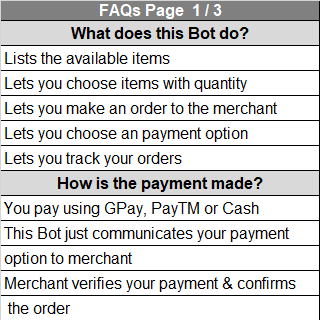
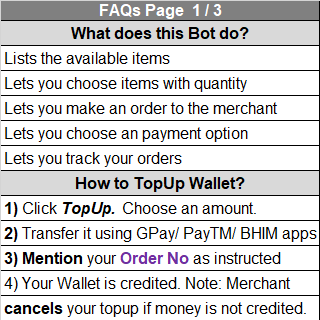
(01) New FAQs (02) Order cancellation updates all transactions (03) Confirmed Orders can be cancelled (04) Small cosmetic changes

Changed region(s): [[0.0, 0.625, 1.0, 0.9062], [0.0, 0.9375, 0.9688, 1.0], [0.1562, 0.5312, 0.8125, 0.5938]]

diff --git a/src/DBInterface.cpp b/src/DBInterface.cpp
@@ -670,17 +670,17 @@ unsigned int DBInterface::addAddressToShipping(unsigned int iUserId, std::string
 }
 
 /*
-+---------+--------------------+-----------------------+
-|         | POrder             | TopUp                 |
-+---------+--------------------+-----------------------+
-| Confirm | Update Order, Cart | Update Order, Cart    |
-|         | Status             | Status                |
-+---------+--------------------+-----------------------+
-| Cancel  | Update Order, Cart | Update Order, Cart    |
-|         | Status             | Status                |
-|         | Increment Wallet   | Decrement Wallet      |
-|         |                    | Decrement all transac |
-+---------+--------------------+-----------------------+
++---------+-----------------------+-----------------------+
+|         | POrder                | TopUp                 |
++---------+-----------------------+-----------------------+
+| Confirm | Update Order, Cart    | Update Order, Cart    |
+|         | Status                | Status                |
++---------+-----------------------+-----------------------+
+| Cancel  | Update Order, Cart    | Update Order, Cart    |
+|         | Status                | Status                |
+|         | Increment Wallet      | Decrement Wallet      |
+|         | Increment all transac | Decrement all transac |
++---------+-----------------------+-----------------------+
 */
 void DBInterface::updateOrderStatus(int iOrderNo, CartStatus crtStatus, OrderType ordrTyp, FILE *fp) {
     std::stringstream ss;
@@ -697,28 +697,23 @@ void DBInterface::updateOrderStatus(int iOrderNo, CartStatus crtStatus, OrderTyp
 
 //--------------- Wallet & transactions update. Only applicable for Cancel request-----------------------------------------------
         if(CartStatus::CANCELLED == crtStatus) {
-            if(OrderType::PORDER == ordrTyp) {
-                ss.str(std::string());
-                ss << "UPDATE User SET " << User::USER_WBALANCE << " = "  << User::USER_WBALANCE << " + " << iNewAmt << " WHERE "
-                        << User::USER_ID << " = " << pOrder->m_UserId << ";";
-                m_hDB->exec(ss.str());
-            }
-            if(OrderType::TOPUP == ordrTyp) {
-                ss.str(std::string());
-                ss << "UPDATE User SET " << User::USER_WBALANCE << " = "  << User::USER_WBALANCE << " - " << iNewAmt << " WHERE "
-                        << User::USER_ID << " = " << pOrder->m_UserId << ";";
-                m_hDB->exec(ss.str());
+            std::string strPlusMinus;
+            strPlusMinus = (OrderType::TOPUP == ordrTyp) ? " - " : " + ";
 
-                //  Decrement all the transactions after that
-                ss.str(std::string());
-                ss << "UPDATE POrder SET " << POrder::PORDER_WBALANCE << " = " << POrder::PORDER_WBALANCE << " - " << iNewAmt
-                        << " WHERE " << POrder::PORDER_ORDR_TM << " > \"" << pOrder->m_OrdrTm << "\" AND "
-                        << POrder::PORDER_USER_ID << " = " << pOrder->m_UserId << ";";
-                m_hDB->exec(ss.str());
+            ss.str(std::string());
+            ss << "UPDATE User SET " << User::USER_WBALANCE << " = "  << User::USER_WBALANCE << strPlusMinus << iNewAmt
+                    << " WHERE " << User::USER_ID << " = " << pOrder->m_UserId << ";";
+            m_hDB->exec(ss.str());
 
-                wBal    = (wBal - iNewAmt);
-                iNewAmt = 0;
-            }
+            //  Increment / Decrement all the transactions after that
+            ss.str(std::string());
+            ss << "UPDATE POrder SET " << POrder::PORDER_WBALANCE << " = " << POrder::PORDER_WBALANCE << strPlusMinus << iNewAmt
+                    << " WHERE " << POrder::PORDER_ORDR_TM << " > \"" << pOrder->m_OrdrTm << "\" AND "
+                    << POrder::PORDER_USER_ID << " = " << pOrder->m_UserId << ";";
+            m_hDB->exec(ss.str());
+
+            wBal    = (OrderType::TOPUP == ordrTyp) ? (wBal - iNewAmt) : (wBal + iNewAmt);
+            iNewAmt = 0;
         }
 
 // ----------------------Update Order / Cart status. Common for all scenarios------------------------------------------------------

diff --git a/src/SingleOrder.cpp b/src/SingleOrder.cpp
@@ -61,6 +61,8 @@ int SingleOrder::addAddressToPNG(std::shared_ptr<pngwriter> pPNGWriter, int iPgL
     std::vector<std::string> lines  = split_address(strAddress);
     std::stringstream ss; ss << "Order No: " << iOrderNo << ", Payment: " << strPayGW;
     lines.insert(lines.begin(), ss.str());
+    ss.str(""); ss << "Ordered : " << pOrder->m_OrdrTm;
+    lines.push_back(ss.str());
 
     std::string strFontFile = std::string(BOT_ROOT_PATH) + std::string(BOT_FONT_PATH) + std::string(BOT_FONT_FILE_BOLD);
     int yAxis = iPgLn - 15, iLoop = 0;
@@ -160,6 +162,8 @@ TgBot::GenericReply::Ptr SingleOrder::prepareMenu(std::map<std::string, std::sha
     } else if(USER_CTXT_CNF_ORDER == usrCtxt) {
         strText =   std::string(SRT_BTN_DLVR_ORDER) + std::string(" ") + std::to_string(iOrderNo);
         createKBBtn(strText, row[iRowIndex], lstBaseBtns);
+        strText =   std::string(STR_BTN_CNCL_ORDER) + std::string(" ") + std::to_string(iOrderNo);
+        createKBBtn(strText, row[iRowIndex], lstBaseBtns);
         iRowIndex++;
     }
 
@@ -225,6 +229,32 @@ void SingleOrder::onClick(TgBot::Message::Ptr pMsg, FILE *fp) {
     if(!strCmd.empty() && 0 < iOrderNo) {
         pOrder  = getDBHandle()->getOrderForOrderNo(iOrderNo, fp);
         pUser   = getDBHandle()->getUserForUserId(pOrder->m_UserId, fp);
+
+        /*std::string strNtf;
+         CartStatus crtStat  = CartStatus::NOTA;
+        switch(mapCmdToInt[strCmd]) {
+            case INT_CNFM_ORDER:
+                fprintf(fp, "BaseBot %ld: SingleOrder onClick, Confirming Order: %d\n", time(0), iOrderNo); fflush(fp);
+                crtStat = CartStatus::READY_FOR_DELIVERY;
+                strNtf  = std::string("Your order no: ") + std::to_string(iOrderNo) + std::string(" is Confirmed.");
+                break;
+            case INT_CNCL_ORDER:
+                fprintf(fp, "BaseBot %ld: SingleOrder onClick, Canceling Order: %d\n", time(0), iOrderNo); fflush(fp);
+                crtStat = CartStatus::CANCELLED;
+                strNtf  = std::string("Your order no: ") + std::to_string(iOrderNo) + std::string(" is Cancelled & Wallet updated. Please call the merchant for details");
+                break;
+            case INT_DLVR_ORDER:
+                fprintf(fp, "BaseBot %ld: SingleOrder onClick, Delivered Order: %d\n", time(0), iOrderNo); fflush(fp);
+                crtStat = CartStatus::DELIVERED;
+                strNtf  = std::string("Your order no: ") + std::to_string(iOrderNo) + std::string(" is Delivered.");
+                break;
+        }
+        getDBHandle()->updateOrderStatus(iOrderNo, crtStat, OrderType::PORDER, fp);
+        notifyMsgs[pUser->m_ChatId] = strNtf;
+        orders = getDBHandle()->getOrderByStatus(pOrder->m_Status, OrderType::PORDER, fp);
+        iOrderNo = (orders.empty()) ? 0 : orders[0]->m_OrderNo;
+        fprintf(fp, "BaseBot %ld: SingleOrder onClick, Picking next New Order: %d\n", time(0), iOrderNo); fflush(fp);*/
+
         switch(mapCmdToInt[strCmd]) {
             case INT_CNFM_ORDER:
                 getDBHandle()->updateOrderStatus(iOrderNo, CartStatus::READY_FOR_DELIVERY, OrderType::PORDER, fp);
@@ -241,7 +271,7 @@ void SingleOrder::onClick(TgBot::Message::Ptr pMsg, FILE *fp) {
                 notifyMsgs[pUser->m_ChatId] = std::string("Your order no: ") + std::to_string(iOrderNo) + std::string(" is Cancelled & Wallet updated. Please call the merchant for details");
                 fprintf(fp, "BaseBot %ld: SingleOrder onClick, Canceling Order: %d\n", time(0), iOrderNo); fflush(fp);
 
-                orders = getDBHandle()->getOrderByStatus(CartStatus::PAYMENT_PENDING, OrderType::PORDER, fp);
+                orders = getDBHandle()->getOrderByStatus(pOrder->m_Status, OrderType::PORDER, fp);
                 iOrderNo = (orders.empty()) ? 0 : orders[0]->m_OrderNo;
                 fprintf(fp, "BaseBot %ld: SingleOrder onClick, Picking next New Order: %d\n", time(0), iOrderNo); fflush(fp);
                 break;

diff --git a/src/MyAddress.cpp b/src/MyAddress.cpp
@@ -19,11 +19,11 @@ std::string MyAddress::STR_MSG_DEFF_RELEASE = "Please enter your address";
 std::string getAddressNotification() {
    return
    std::string("Type address & mobile no in short form & send. <b>MOBILE No IS MUST.</b>") +
-   std::string("\nNote: This screen repeats until you give a 10 digit mobile no.") +
-   std::string("\n\nExample:\nB6 105, SSM Nagar, Perungalathur, 98452 35323") +
-   std::string("\n\n24A 101, Bollineni Hillside, Nookampalayam, 88765 89623") +
-   std::string("\n\nD3F2 Navins Brookfield, Nanmangalam, 91765 66966") +
-   std::string("\n\nM 104 Purva Fountain Square, Marathahalli, 70102 80604");
+   std::string("\n\n(01)Note: This screen repeats until you give a 10 digit mobile no.") +
+   std::string("\n\n(02)<b>Short Form</b>: Bangalore -> Blr, PinCode - 3digits, Road -> Rd, Main -> Mn") +
+   std::string(",  Appartment -> Apt,  Near -> Nr, Extension -> Extn, Stage -> Stg, First -> 1st, Second -> 2nd, Sixth -> 6th.") +
+   std::string("\n\nExample:\n1st Mn, Domlur, HAL 2nd Stg, Blr-8, 98452 35323") +
+   std::string("\n\nB401 Rajni Ashish Apt, MG Rd, Thubarahalli, 70102 80604");
 }
 
 TgBot::GenericReply::Ptr MyAddress::prepareMenu(std::map<std::string, std::shared_ptr<BaseButton>>& lstBaseBtns, TgBot::Message::Ptr pMsg, FILE *fp) {

diff --git a/src/Daemon.cpp b/src/Daemon.cpp
@@ -228,8 +228,6 @@ void BotMainLoop(FILE *fp) {
             pBaseBtn = itrBBtn->second->getSharedPtr();
         } else {
             fprintf(fp, "BaseBot %ld: \"%s\" button missing\n", time(0), pMsg->text.c_str()); fflush(fp);
-//            std::stringstream ss;
-//            ss << "Hi " << pMsg->from->firstName << ", could not recognize what you say, pls use the buttons below.\nRegret the inconvenience caused.";
             pBaseBtn    = listBaseBtns[STR_BTN_MAINMENU];
         }
 

diff --git a/include/Constants.h b/include/Constants.h
@@ -11,7 +11,7 @@
 #include <map>
 #include <vector>
 
-#define SGN_BOT_VER "1.1.1"
+#define SGN_BOT_VER "1.1.2"
 
 #define MANI_MAMA
 #define _Pi_
@@ -97,7 +97,7 @@
 #define MAX_ADDRESSES       (3)
 #define MAX_ADD_RMV_BTNS_PER_ROW    (7)
 #define MAX_SINGLE_LINE_WIDTH   (40)
-#define MAX_ADDRESS_LINES   (3)
+#define MAX_ADDRESS_LINES   (4)
 #define MAX_YOUR_ORDERS     (100)
 
 #define USER_CTXT_NOTA          (100)

diff --git a/include/ProductList.h b/include/ProductList.h
@@ -14,7 +14,7 @@
 #include "DBInterface.h"
 #include "BaseButton.h"
 
-#define PAGE_SUFFIX     "Product Page"
+#define PAGE_SUFFIX     "Menu Page"
 
 class ProductList : public BaseButton, public std::enable_shared_from_this<ProductList> {
     std::vector<Product::Ptr> products;
